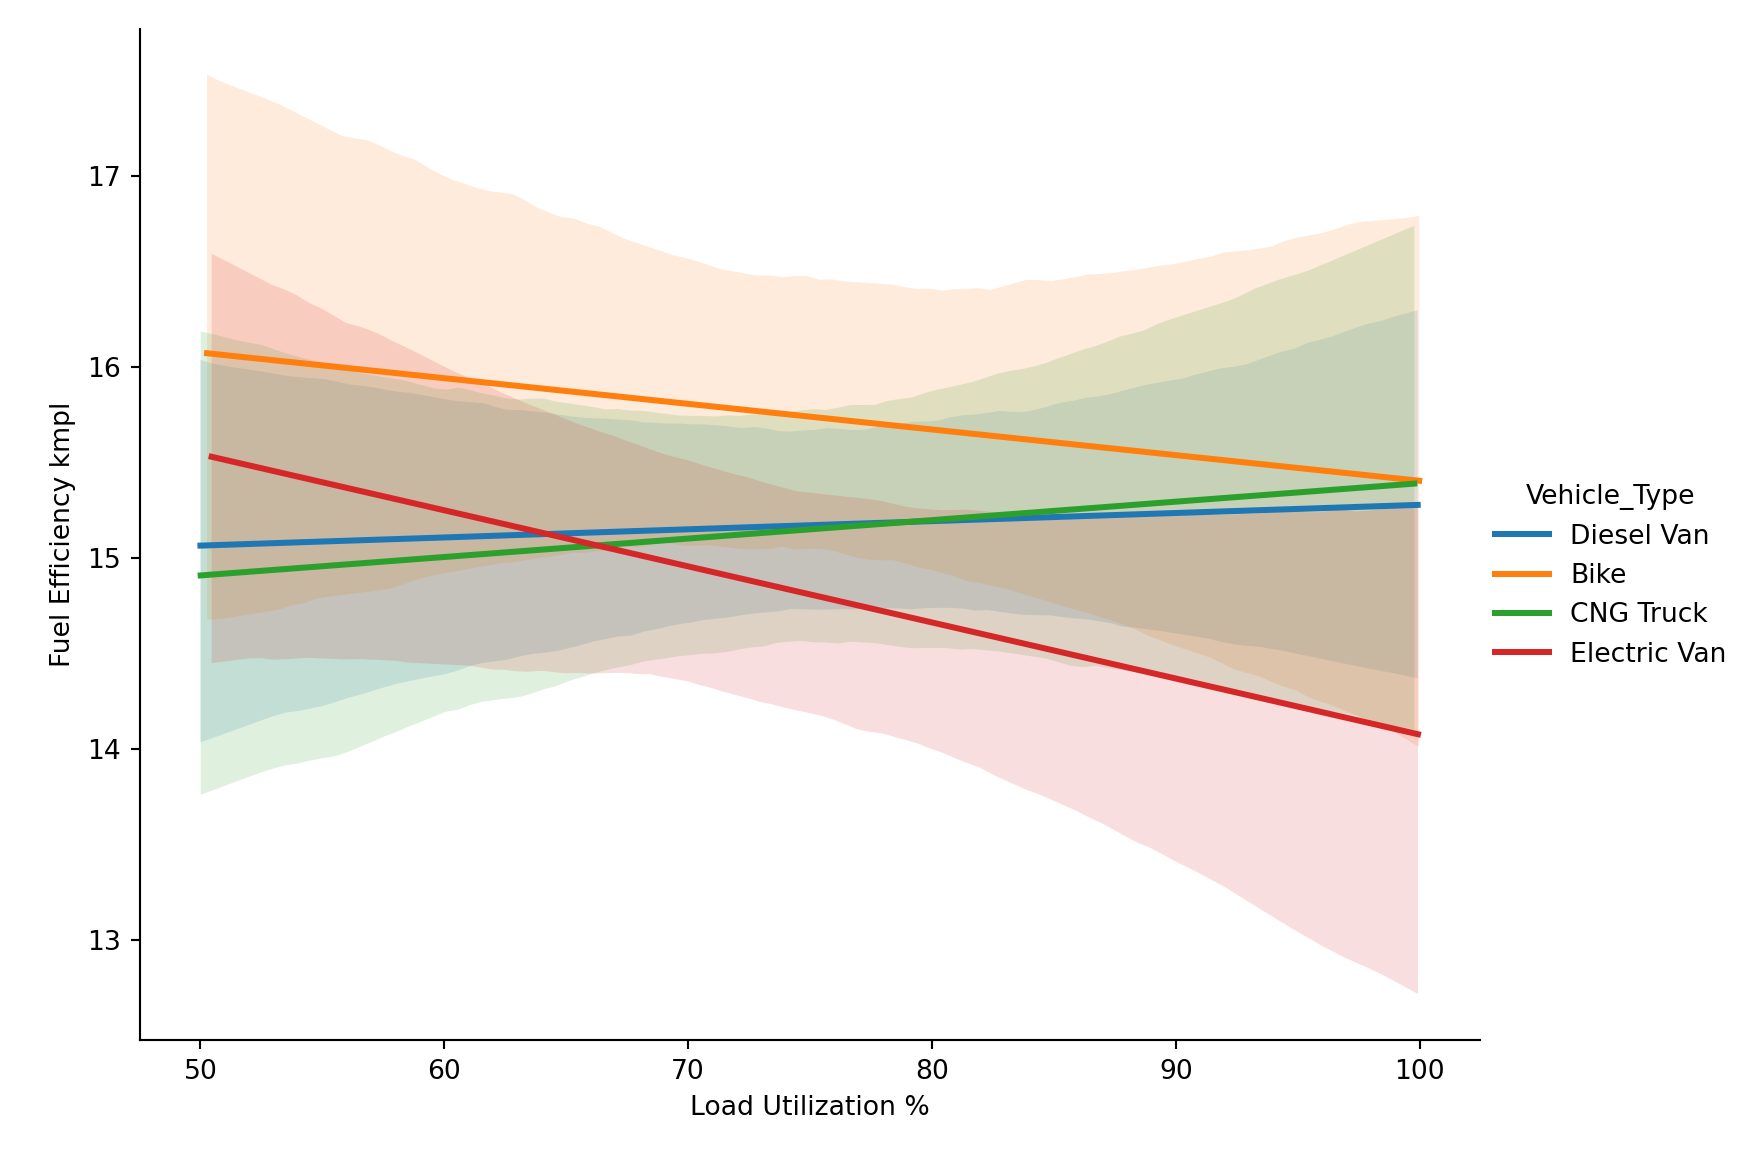
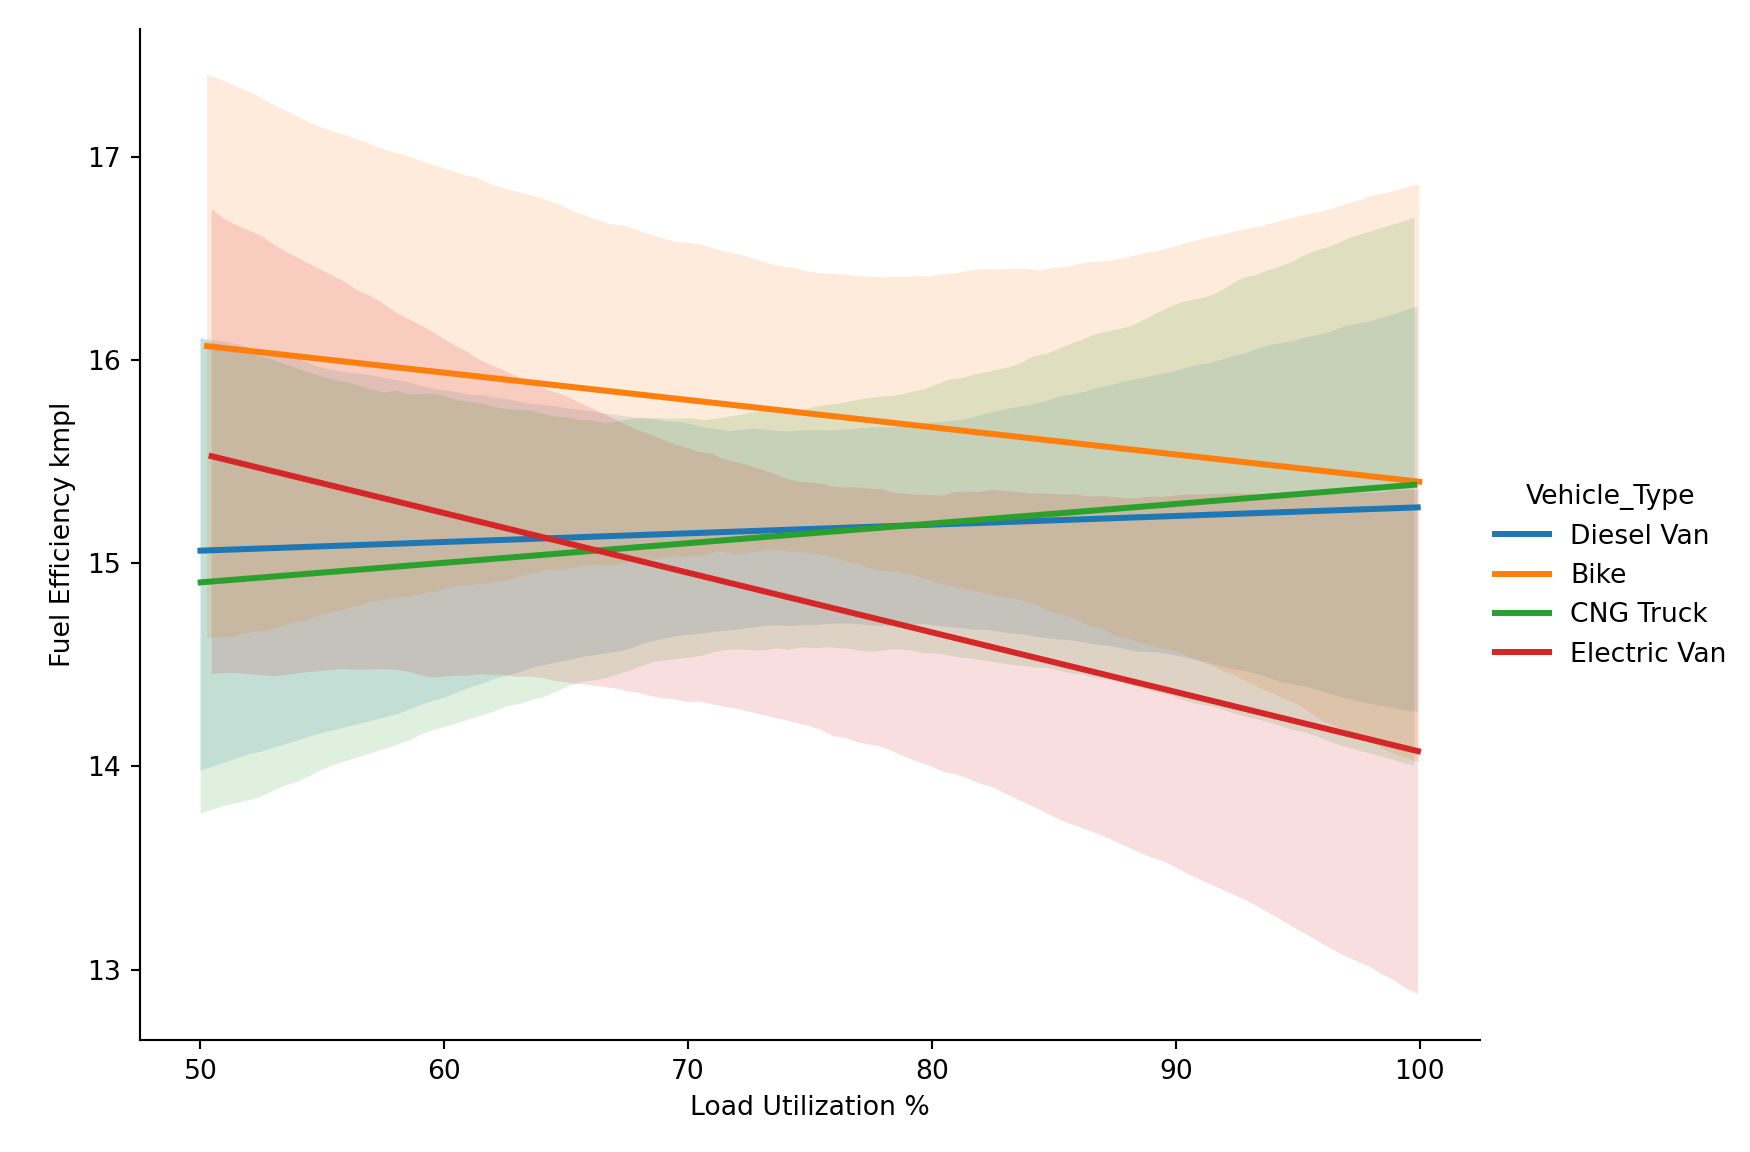
fixed tables

diff --git a/docs/project_1.html b/docs/project_1.html
@@ -304,8 +304,8 @@ for col in columns_to_check:
 # I also want to check the count of delivery types for each vehicle type, and the average distance for each delivery type
 count_delivery_type = data_import.groupby(&quot;Vehicle_Type&quot;)[&quot;Delivery_Type&quot;].value_counts()
 mean_distance = data_import.groupby(&quot;Delivery_Type&quot;)[&quot;Distance_km&quot;].mean()</code></pre>
-Here we have the counts of the variables which has highlighted an
-anomalous row we will remove in the vehicle type column
+<p>Here we have the counts of the variables which has highlighted an
+anomalous row we will remove in the vehicle type column</p>
 <div style="display:flex; gap:20px;">
 <div style="flex:1;">
 <pre><code>          Count</code></pre>
@@ -322,6 +322,9 @@ Urban 592 Suburban 463 Rural 305 Highway 140</p>
 <p>Delivery_Type<br />
 Standard 749 Express 459 Same-day 292</p>
 </div>
+</div>
+<p><br></p>
+<div style="display:flex; gap:20px;">
 <div style="flex:1;">
 <p>Delivery_Type Express 103.216187 Same-day 101.389212 Standard
 101.014619 Name: Distance_km, dtype: float64</p>
@@ -431,7 +434,10 @@ coef_df = pd.DataFrame(coef_table)
 print(coef_df)</code></pre>
 <p>Vehicle Type kmpl change per 10% load increase p_value 0 Diesel Van
 0.042691 0.810296 1 Bike -0.134249 0.584365 2 CNG Truck 0.096572
-0.664480 3 Electric Van -0.293594 0.162169 4 S 2.506024 NaN</p>
+0.664480 3 Electric Van -0.293594 0.162169 4 S 2.506024 NaN As you can
+see every p value is &gt;0.05 meaning none of the results are
+significant, indicating that increasing the load has a negligible effect
+on fuel efficiency for every vehicle type.</p>
 <p>I created a function that calculated the averages for each
 combination of delivery and vehicle types for the other key metrics in
 the data.</p>
@@ -457,12 +463,16 @@ combined_matrix = pd.concat(
 
 combined_matrix.index = combined_matrix.index.map(&#39;_&#39;.join)
 combined_matrix</code></pre>
-Vehicle_Type Bike CNG Truck Diesel Van Electric Van On_Time_Express 0.89
-0.87 0.89 0.92 On_Time_Same-day 0.95 0.92 0.93 0.90 On_Time_Standard
-0.93 0.92 0.94 0.90 CO2_kg_Express 2.72 11.86 18.77 4.07 CO2_kg_Same-day
-2.00 11.93 20.89 3.70 CO2_kg_Standard 2.41 12.39 18.12 4.08
-Fuel_kmpl_Express 15.17 14.94 15.44 15.18 Fuel_kmpl_Same-day 16.07 14.67
-14.86 14.57 Fuel_kmpl_Standard 15.97 15.42 15.15 14.70
+<pre><code>## Vehicle_Type         Bike  CNG Truck  Diesel Van  Electric Van
+## On_Time_Express      0.89       0.87        0.89          0.92
+## On_Time_Same-day     0.95       0.92        0.93          0.90
+## On_Time_Standard     0.93       0.92        0.94          0.90
+## CO2_kg_Express       2.72      11.86       18.77          4.07
+## CO2_kg_Same-day      2.00      11.93       20.89          3.70
+## CO2_kg_Standard      2.41      12.39       18.12          4.08
+## Fuel_kmpl_Express   15.17      14.94       15.44         15.18
+## Fuel_kmpl_Same-day  16.07      14.67       14.86         14.57
+## Fuel_kmpl_Standard  15.97      15.42       15.15         14.70</code></pre>
 </div>
 <p>Now we can clearly see how the averages of the combinations stack up
 against the average for the whole variable, this shows us which
@@ -499,7 +509,8 @@ compromising deliveries.</p>
 <ul>
 <li>Diesel vans and electric vans both have a steady decline in their
 fuel efficiency as load utilisation increases, with electric vehicles
-seeing a bigger drop</li>
+seeing a bigger drop. However, my coefficient table indicates that these
+observations are not significant.</li>
 </ul>
 </div>
 </div>
